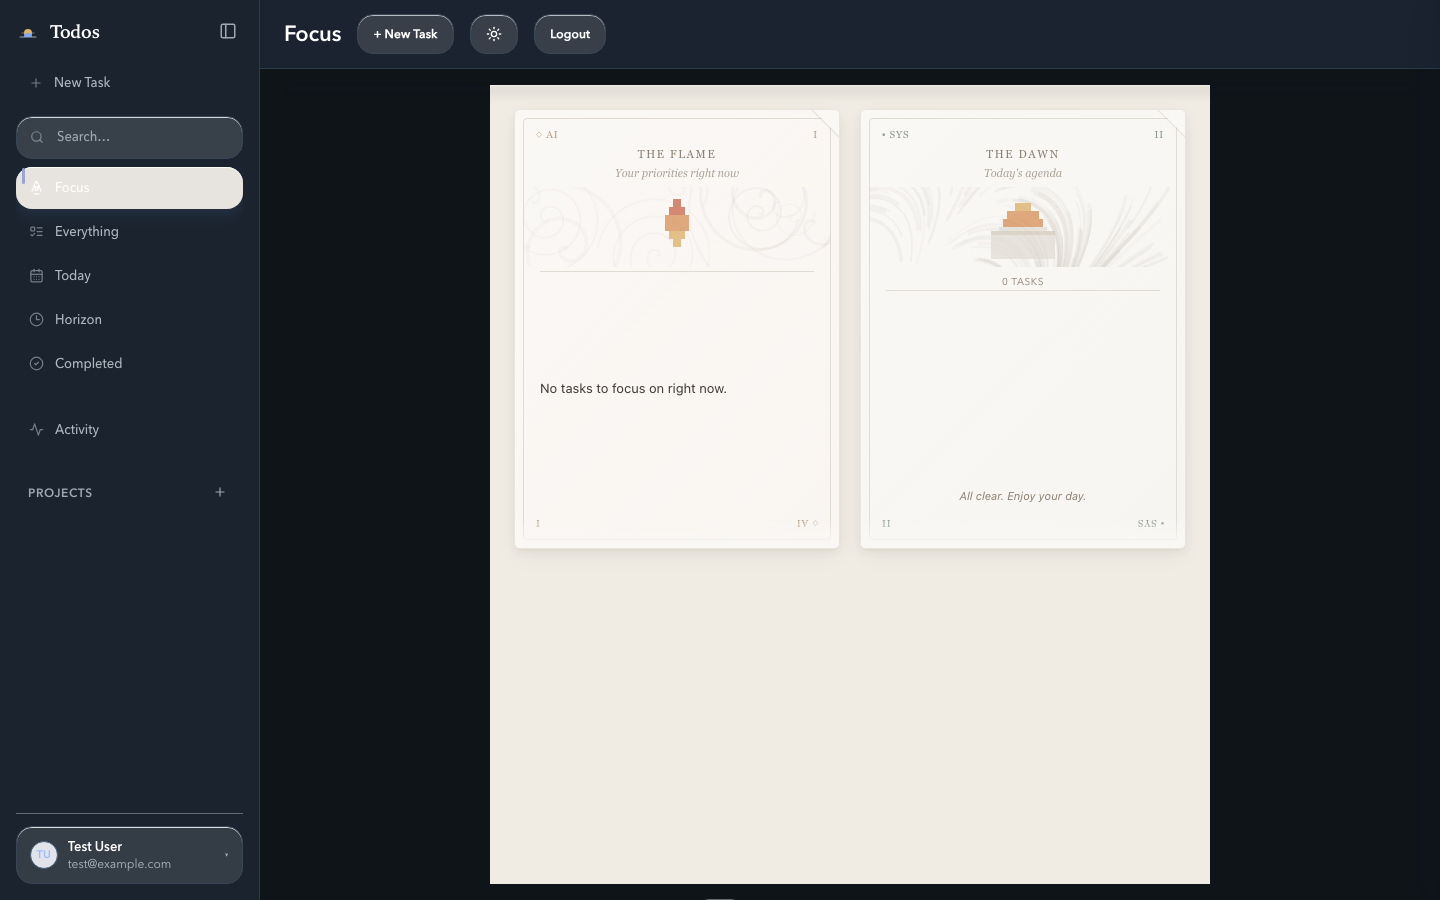
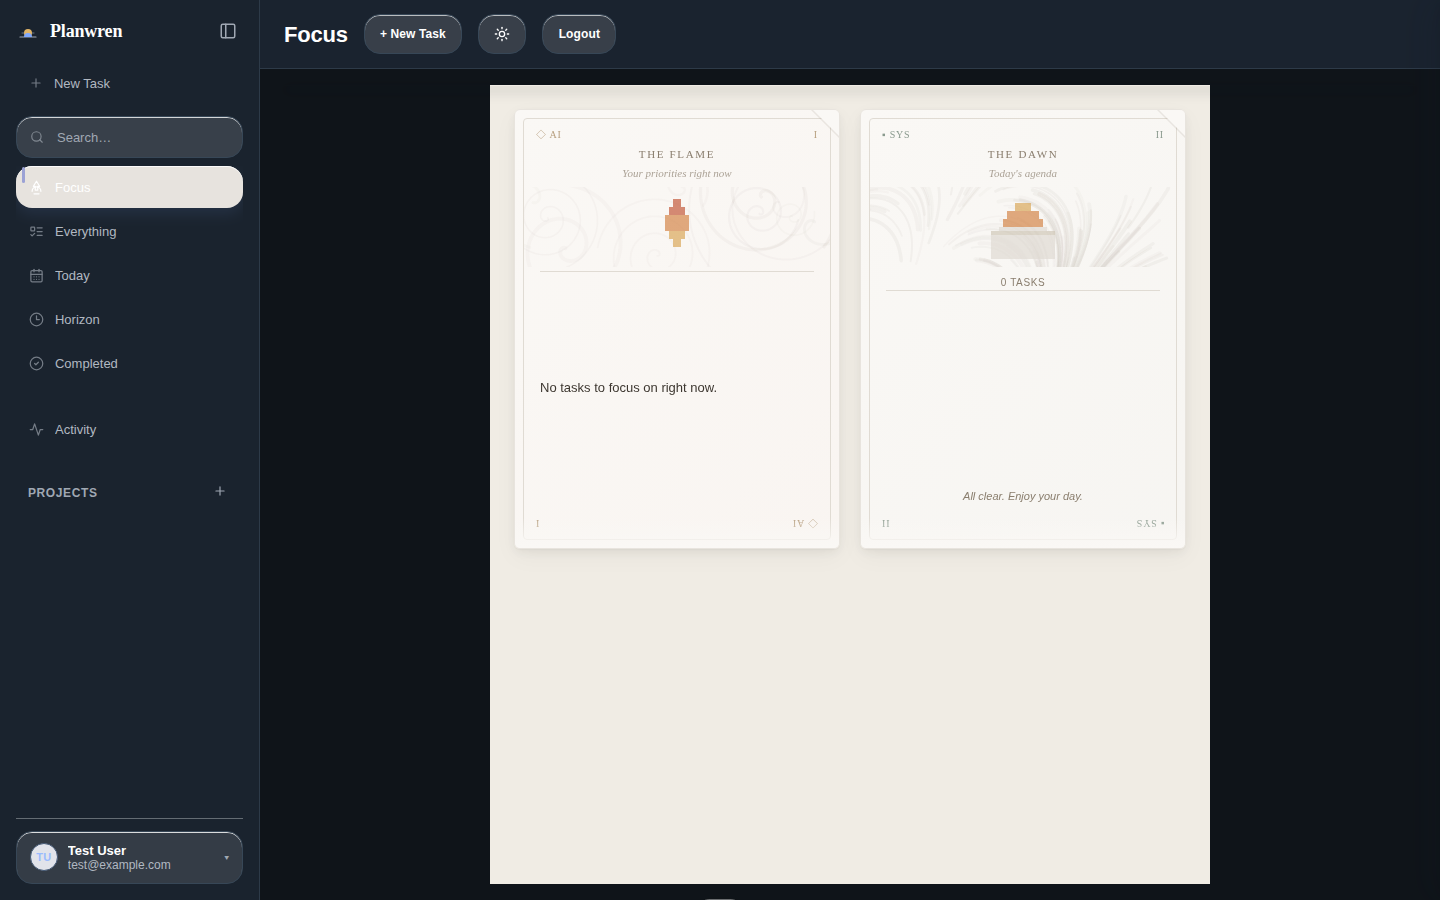
feat(ui): rebrand standalone app as Planwren (#1091)

diff --git a/src/views/publicReviewPages.ts b/src/views/publicReviewPages.ts
@@ -1,4 +1,4 @@
-const LAST_UPDATED = "August 13, 2026";
+const LAST_UPDATED = "October 2, 2026";
 const SUPPORT_EMAIL = "hello@theafoundry.com";
 
 function escapeHtml(value: string): string {
@@ -17,7 +17,7 @@ function page(title: string, summary: string, content: string): string {
   <meta charset="utf-8">
   <meta name="viewport" content="width=device-width,initial-scale=1">
   <meta name="description" content="${escapeHtml(summary)}">
-  <title>${escapeHtml(title)} · Todos</title>
+  <title>${escapeHtml(title)} · Planwren</title>
   <style>
     :root { color-scheme: light dark; font-family: ui-sans-serif, -apple-system, BlinkMacSystemFont, "Segoe UI", sans-serif; --paper:#fbfaf7; --ink:#1d2623; --muted:#5d6864; --line:#d8ddd8; --accent:#276450; }
     * { box-sizing: border-box; }
@@ -44,7 +44,7 @@ function page(title: string, summary: string, content: string): string {
 <body>
   <a class="skip" href="#main-content">Skip to content</a>
   <header>
-    <a href="/" aria-label="Todos home"><strong>Todos</strong></a>
+    <a href="/" aria-label="Planwren home"><strong>Planwren</strong></a>
     <nav aria-label="Policy and support">
       <a href="/privacy">Privacy</a>
       <a href="/terms">Terms</a>
@@ -57,7 +57,7 @@ function page(title: string, summary: string, content: string): string {
     <p class="updated">Last updated ${LAST_UPDATED}</p>
     ${content}
   </main>
-  <footer>Todos is published by <a href="https://theafoundry.com">Thea Foundry</a>.</footer>
+  <footer>Planwren is published by <a href="https://theafoundry.com">Thea Foundry</a>.</footer>
 </body>
 </html>`;
 }
@@ -65,19 +65,19 @@ function page(title: string, summary: string, content: string): string {
 export function buildPrivacyPage(): string {
   return page(
     "Privacy policy",
-    "How Todos handles account, task, planning, and connected-assistant data.",
-    `<h2>Information Todos handles</h2>
-    <p>Todos stores the information you provide to create and use an account, including your email address, optional name, tasks, projects, planning preferences, and the changes you make to them. It also stores security and operational records needed to authenticate requests, maintain connected-assistant sessions, prevent replay, diagnose failures, and operate the service.</p>
+    "How Planwren handles account, task, planning, and connected-assistant data.",
+    `<h2>Information Planwren handles</h2>
+    <p>Planwren stores the information you provide to create and use an account, including your email address, optional name, tasks, projects, planning preferences, and the changes you make to them. It also stores security and operational records needed to authenticate requests, maintain connected-assistant sessions, prevent replay, diagnose failures, and operate the service.</p>
     <h2>Connected assistants</h2>
-    <p>When you connect Todos to ChatGPT or another compatible assistant, Todos uses OAuth to authorize the connection. The assistant receives only the tool results needed for the action you request. The native Todos tool contract returns minimized task and plan fields and does not return task notes, account credentials, or internal telemetry.</p>
+    <p>When you connect Planwren to ChatGPT or another compatible assistant, Planwren uses OAuth to authorize the connection. The assistant receives only the tool results needed for the action you request. The native Planwren tool contract returns minimized task and plan fields and does not return task notes, account credentials, or internal telemetry.</p>
     <h2>How information is used</h2>
-    <p>Information is used to provide task capture, planning, completion, rescheduling, account security, support, reliability, and abuse prevention. Todos does not sell personal information.</p>
+    <p>Information is used to provide task capture, planning, completion, rescheduling, account security, support, reliability, and abuse prevention. Planwren does not sell personal information.</p>
     <h2>Service providers and disclosure</h2>
-    <p>Todos may use infrastructure and communications providers to host the service, store data, deliver account email, and monitor reliability. Information may also be disclosed when required by law or necessary to protect users and the service.</p>
+    <p>Planwren may use infrastructure and communications providers to host the service, store data, deliver account email, and monitor reliability. Information may also be disclosed when required by law or necessary to protect users and the service.</p>
     <h2>Your choices</h2>
-    <p>You can disconnect an assistant without deleting your Todos account. An authenticated data export is available in Todos. To request access, correction, or deletion, contact <a href="mailto:${SUPPORT_EMAIL}">${SUPPORT_EMAIL}</a>. Requests may require account verification.</p>
+    <p>You can disconnect an assistant without deleting your Planwren account. An authenticated data export is available in Planwren. To request access, correction, or deletion, contact <a href="mailto:${SUPPORT_EMAIL}">${SUPPORT_EMAIL}</a>. Requests may require account verification.</p>
     <h2>Retention and security</h2>
-    <p>Todos retains information while it is needed to provide the service, secure accounts, meet legal obligations, and resolve disputes. Reasonable technical and organizational safeguards are used, but no online service can guarantee absolute security.</p>
+    <p>Planwren retains information while it is needed to provide the service, secure accounts, meet legal obligations, and resolve disputes. Reasonable technical and organizational safeguards are used, but no online service can guarantee absolute security.</p>
     <h2>Changes and contact</h2>
     <p>Material changes will be reflected on this page by updating its date. Privacy questions can be sent to <a href="mailto:${SUPPORT_EMAIL}">${SUPPORT_EMAIL}</a>.</p>`,
   );
@@ -86,19 +86,19 @@ export function buildPrivacyPage(): string {
 export function buildTermsPage(): string {
   return page(
     "Terms of use",
-    "The terms that apply when you use Todos and its connected-assistant tools.",
-    `<h2>Using Todos</h2>
-    <p>You may use Todos only in compliance with applicable law and these terms. You are responsible for your account, the accuracy of information you provide, and activity performed through connections you authorize.</p>
+    "The terms that apply when you use Planwren and its connected-assistant tools.",
+    `<h2>Using Planwren</h2>
+    <p>You may use Planwren only in compliance with applicable law and these terms. You are responsible for your account, the accuracy of information you provide, and activity performed through connections you authorize.</p>
     <h2>Connected assistants</h2>
-    <p>Assistant output and tool selection can be imperfect. Review important task changes before relying on them. You can revoke a connected assistant from Todos, and the assistant provider may apply separate terms to its service.</p>
+    <p>Assistant output and tool selection can be imperfect. Review important task changes before relying on them. You can revoke a connected assistant from Planwren, and the assistant provider may apply separate terms to its service.</p>
     <h2>Acceptable use</h2>
-    <p>Do not misuse the service, attempt unauthorized access, interfere with operation, bypass rate or security controls, introduce malicious content, or use Todos to violate another person’s rights.</p>
+    <p>Do not misuse the service, attempt unauthorized access, interfere with operation, bypass rate or security controls, introduce malicious content, or use Planwren to violate another person’s rights.</p>
     <h2>Your content</h2>
-    <p>You retain responsibility for the task and project content you submit. You permit Todos to process that content only as needed to operate, secure, support, and improve the service.</p>
+    <p>You retain responsibility for the task and project content you submit. You permit Planwren to process that content only as needed to operate, secure, support, and improve the service.</p>
     <h2>Availability and changes</h2>
     <p>The service may change, be interrupted, or be discontinued. Where practical, material changes to these terms will be reflected by an updated date on this page.</p>
     <h2>Disclaimers and liability</h2>
-    <p>Todos is provided on an “as is” and “as available” basis to the extent permitted by law. To the extent permitted by law, Thea Foundry is not liable for indirect, incidental, special, consequential, or punitive damages arising from use of the service.</p>
+    <p>Planwren is provided on an “as is” and “as available” basis to the extent permitted by law. To the extent permitted by law, Thea Foundry is not liable for indirect, incidental, special, consequential, or punitive damages arising from use of the service.</p>
     <h2>Contact</h2>
     <p>Questions about these terms can be sent to <a href="mailto:${SUPPORT_EMAIL}">${SUPPORT_EMAIL}</a>.</p>`,
   );
@@ -107,18 +107,18 @@ export function buildTermsPage(): string {
 export function buildSupportPage(): string {
   return page(
     "Support",
-    "Help with Todos accounts, connected assistants, privacy, and task planning.",
+    "Help with Planwren accounts, connected assistants, privacy, and task planning.",
     `<h2>Contact support</h2>
-    <p>Email <a href="mailto:${SUPPORT_EMAIL}?subject=Todos%20support">${SUPPORT_EMAIL}</a>. Include a short description of the issue and the approximate time it occurred. Do not send passwords, access tokens, refresh tokens, or other secrets.</p>
+    <p>Email <a href="mailto:${SUPPORT_EMAIL}?subject=Planwren%20support">${SUPPORT_EMAIL}</a>. Include a short description of the issue and the approximate time it occurred. Do not send passwords, access tokens, refresh tokens, or other secrets.</p>
     <h2>Connected-assistant troubleshooting</h2>
     <ol>
-      <li>Confirm you are connecting <code>https://todos.theafoundry.com/mcp/app</code>.</li>
-      <li>Disconnect and relink Todos if authorization expired or requested permissions changed.</li>
-      <li>Confirm the Todos account has the tasks or projects you expect to use.</li>
+      <li>Existing assistant connections may still be listed as Todos. Confirm you are connecting <code>https://todos.theafoundry.com/mcp/app</code>.</li>
+      <li>Disconnect and relink the connection (listed as Todos or Planwren) if authorization expired or requested permissions changed.</li>
+      <li>Confirm the Planwren account has the tasks or projects you expect to use.</li>
     </ol>
     <h2>Privacy requests</h2>
-    <p>For data access, correction, export, or deletion requests, email <a href="mailto:${SUPPORT_EMAIL}?subject=Todos%20privacy%20request">${SUPPORT_EMAIL}</a> from your account address. We may ask you to verify the account before acting.</p>
+    <p>For data access, correction, export, or deletion requests, email <a href="mailto:${SUPPORT_EMAIL}?subject=Planwren%20privacy%20request">${SUPPORT_EMAIL}</a> from your account address. We may ask you to verify the account before acting.</p>
     <h2>Security reports</h2>
-    <p>Send security concerns privately to <a href="mailto:${SUPPORT_EMAIL}?subject=Todos%20security%20report">${SUPPORT_EMAIL}</a>. Please avoid including live credentials or personal data that is not necessary to explain the issue.</p>`,
+    <p>Send security concerns privately to <a href="mailto:${SUPPORT_EMAIL}?subject=Planwren%20security%20report">${SUPPORT_EMAIL}</a>. Please avoid including live credentials or personal data that is not necessary to explain the issue.</p>`,
   );
 }

diff --git a/src/services/emailService.ts b/src/services/emailService.ts
@@ -47,12 +47,13 @@ export class EmailService {
 
     try {
       const info = await this.transporter.sendMail({
-        from: config.smtpFrom || '"Todo App" <noreply@todoapp.com>',
+        from: config.smtpFrom || '"Planwren" <noreply@todoapp.com>',
         to: email,
         subject: "Verify your email address",
         html: `
           <div style="font-family: Arial, sans-serif; max-width: 600px; margin: 0 auto;">
-            <h2>Welcome to Todo App!</h2>
+            <h2>Welcome to Planwren!</h2>
+            <p>Planwren was previously called Todos. Account links continue to use the existing service domain.</p>
             <p>Please verify your email address by clicking the button below:</p>
             <p style="margin: 30px 0;">
               <a href="${verificationUrl}"
@@ -91,12 +92,13 @@ export class EmailService {
 
     try {
       const info = await this.transporter.sendMail({
-        from: config.smtpFrom || '"Todo App" <noreply@todoapp.com>',
+        from: config.smtpFrom || '"Planwren" <noreply@todoapp.com>',
         to: email,
         subject: "Reset your password",
         html: `
           <div style="font-family: Arial, sans-serif; max-width: 600px; margin: 0 auto;">
             <h2>Password Reset Request</h2>
+            <p>Planwren was previously called Todos. Account links continue to use the existing service domain.</p>
             <p>You requested to reset your password. Click the button below to reset it:</p>
             <p style="margin: 30px 0;">
               <a href="${resetUrl}"
@@ -142,7 +144,7 @@ export class EmailService {
 
     try {
       const info = await this.transporter.sendMail({
-        from: config.smtpFrom || '"Todo App" <noreply@todoapp.com>',
+        from: config.smtpFrom || '"Planwren" <noreply@todoapp.com>',
         to: email,
         subject: "We received your feedback",
         html: `
@@ -163,7 +165,7 @@ export class EmailService {
               </a>
             </p>
             <p style="color: #999; font-size: 12px; margin-top: 40px;">
-              You're receiving this because you submitted feedback on Todo App.
+              You're receiving this because you submitted feedback on Planwren.
             </p>
           </div>
         `,
@@ -223,7 +225,7 @@ export class EmailService {
 
     try {
       const info = await this.transporter.sendMail({
-        from: config.smtpFrom || '"Todo App" <noreply@todoapp.com>',
+        from: config.smtpFrom || '"Planwren" <noreply@todoapp.com>',
         to: email,
         subject: `${total} task${total === 1 ? "" : "s"} need${total === 1 ? "s" : ""} attention`,
         html: `
@@ -235,7 +237,7 @@ export class EmailService {
               <a href="${this.baseUrl}"
                  style="background-color: #667eea; color: white; padding: 12px 24px;
                         text-decoration: none; border-radius: 5px; display: inline-block;">
-                Open Todo App
+                Open Planwren
               </a>
             </p>
             <p style="color: #999; font-size: 12px; margin-top: 40px;">
@@ -308,7 +310,7 @@ export class EmailService {
 
     try {
       const info = await this.transporter.sendMail({
-        from: config.smtpFrom || '"Todo App" <noreply@todoapp.com>',
+        from: config.smtpFrom || '"Planwren" <noreply@todoapp.com>',
         to: email,
         subject,
         html: `
@@ -327,7 +329,7 @@ export class EmailService {
               </a>
             </p>
             <p style="color: #999; font-size: 12px; margin-top: 40px;">
-              You're receiving this because you submitted feedback on Todo App.
+              You're receiving this because you submitted feedback on Planwren.
             </p>
           </div>
         `,

diff --git a/client-react/src/components/layout/appShellLogic.test.ts b/client-react/src/components/layout/appShellLogic.test.ts
@@ -90,14 +90,14 @@ describe("appShellLogic", () => {
 
   describe("buildDocumentTitle", () => {
     it("uses headerTitle for todos page", () => {
-      expect(buildDocumentTitle("todos", "Focus")).toBe("Focus — Todos");
+      expect(buildDocumentTitle("todos", "Focus")).toBe("Focus — Planwren");
     });
 
     it.each([
-      ["settings", "Settings — Todos"],
-      ["admin", "Admin — Todos"],
-      ["feedback", "Feedback — Todos"],
-      ["review", "Weekly Review — Todos"],
+      ["settings", "Settings — Planwren"],
+      ["admin", "Admin — Planwren"],
+      ["feedback", "Feedback — Planwren"],
+      ["review", "Weekly Review — Planwren"],
     ])("uses page label for %s page", (page, expected) => {
       expect(buildDocumentTitle(page as any, "Ignored")).toBe(expected);
     });

diff --git a/client-react/index.html b/client-react/index.html
@@ -4,12 +4,14 @@
     <meta charset="UTF-8" />
     <meta name="viewport" content="width=device-width, initial-scale=1.0" />
     <meta name="theme-color" content="#4f6ef7" />
+    <meta name="application-name" content="Planwren" />
+    <meta name="apple-mobile-web-app-title" content="Planwren" />
     <link rel="preconnect" href="https://fonts.googleapis.com">
     <link rel="preconnect" href="https://fonts.gstatic.com" crossorigin>
     <link href="https://fonts.googleapis.com/css2?family=DM+Sans:ital,opsz,wght@0,9..40,300..800;1,9..40,300..800&display=swap" rel="stylesheet">
     <link rel="icon" type="image/svg+xml" href="/app/favicon.svg" />
     <link rel="manifest" href="/app/manifest.json" />
-    <title>Todos</title>
+    <title>Planwren</title>
   </head>
   <body>
     <div id="root"></div>

diff --git a/client-react/src/landing/LandingPage.test.tsx b/client-react/src/landing/LandingPage.test.tsx
@@ -11,7 +11,7 @@ describe("LandingPage", () => {
 
   it("renders the navigation bar with logo", () => {
     const { container } = render(createElement(LandingPage));
-    expect(screen.getByText("Todos")).toBeTruthy();
+    expect(screen.getByText("Planwren")).toBeTruthy();
     expect(container.querySelector(".landing-nav")).toBeTruthy();
   });
 
@@ -101,7 +101,7 @@ describe("LandingPage", () => {
   it("renders the footer with copyright", () => {
     render(createElement(LandingPage));
     const year = new Date().getFullYear();
-    expect(screen.getByText(new RegExp(`© ${year} Todos`))).toBeTruthy();
+    expect(screen.getByText(new RegExp(`© ${year} Planwren`))).toBeTruthy();
   });
 
   it("has correct anchor links in navigation", () => {

diff --git a/client-react/src/landing/LandingPage.tsx b/client-react/src/landing/LandingPage.tsx
@@ -207,7 +207,7 @@ function LandingNav() {
     <nav className="landing-nav">
       <div className="landing-nav__inner">
         <a href="/" className="landing-nav__logo">
-          Todos
+          Planwren
         </a>
         <div className="landing-nav__links">
           <a href="#landing-features" className="landing-nav__link">
@@ -429,7 +429,7 @@ function LandingFooter() {
     <footer className="landing-footer">
       <div className="landing-section__inner">
         <span className="landing-footer__copy">
-          © {new Date().getFullYear()} Todos. Built for focused work.
+          © {new Date().getFullYear()} Planwren. Built for focused work.
         </span>
       </div>
     </footer>

diff --git a/client-react/auth.html b/client-react/auth.html
@@ -3,10 +3,10 @@
   <head>
     <meta charset="UTF-8" />
     <meta name="viewport" content="width=device-width, initial-scale=1.0" />
-    <title>Todos — Sign In</title>
+    <title>Planwren — Sign In</title>
     <link rel="icon" type="image/svg+xml" href="/favicon.svg" />
     <meta name="theme-color" content="#4F46E5" />
-    <meta name="description" content="Sign in to your Todos planning workspace." />
+    <meta name="description" content="Sign in to your Planwren planning workspace." />
     <script type="module" src="/src/auth/main.tsx"></script>
   </head>
   <body>

diff --git a/client-react/landing.html b/client-react/landing.html
@@ -3,7 +3,7 @@
   <head>
     <meta charset="UTF-8" />
     <meta name="viewport" content="width=device-width, initial-scale=1.0" />
-    <title>Todos — Planning Workspace</title>
+    <title>Planwren — Planning Workspace</title>
     <link rel="icon" type="image/svg+xml" href="/favicon.svg" />
     <meta name="theme-color" content="#4F46E5" />
     <meta name="description" content="Plan your days. Review your weeks. Focus on what matters. AI-powered task planning workspace." />

diff --git a/client-react/src/components/layout/appShellLogic.ts b/client-react/src/components/layout/appShellLogic.ts
@@ -120,7 +120,7 @@ export function buildDocumentTitle(
   headerTitle: string,
 ): string {
   const pageLabel = page === "todos" ? headerTitle : getPageLabel(page);
-  return `${pageLabel} — Todos`;
+  return `${pageLabel} — Planwren`;
 }
 
 // ── Header title derivation ───────────────────────────────────────────────

diff --git a/client-react/src/components/projects/Sidebar.tsx b/client-react/src/components/projects/Sidebar.tsx
@@ -158,7 +158,7 @@ export function Sidebar({
       <div className="sidebar-header">
         <div className="sidebar-header__brand">
           <BrandMark size={24} className="sidebar-header__mark" />
-          <span className="sidebar-header__logo">Todos</span>
+          <span className="sidebar-header__logo">Planwren</span>
         </div>
         <button
           className="sidebar-header__collapse"

diff --git a/tests/ui/app-shell.spec.ts b/tests/ui/app-shell.spec.ts
@@ -22,7 +22,7 @@ test.describe("App shell (desktop)", () => {
 
     // Sidebar header with logo.
     await expect(page.locator(".sidebar-header__logo")).toBeVisible();
-    await expect(page.locator(".sidebar-header__logo")).toHaveText("Todos");
+    await expect(page.locator(".sidebar-header__logo")).toHaveText("Planwren");
 
     // Main content area.
     const mainArea = page.locator(".app-main");

diff --git a/client-react/src/auth/AuthPage.tsx b/client-react/src/auth/AuthPage.tsx
@@ -77,7 +77,7 @@ export function AuthPage() {
       <div className="auth-card">
         <div className="auth-card__header">
           <button className="auth-card__back" onClick={goHome} title="Back to home">←</button>
-          <span className="auth-card__logo">Todos</span>
+          <span className="auth-card__logo">Planwren</span>
         </div>
 
         {message && (
